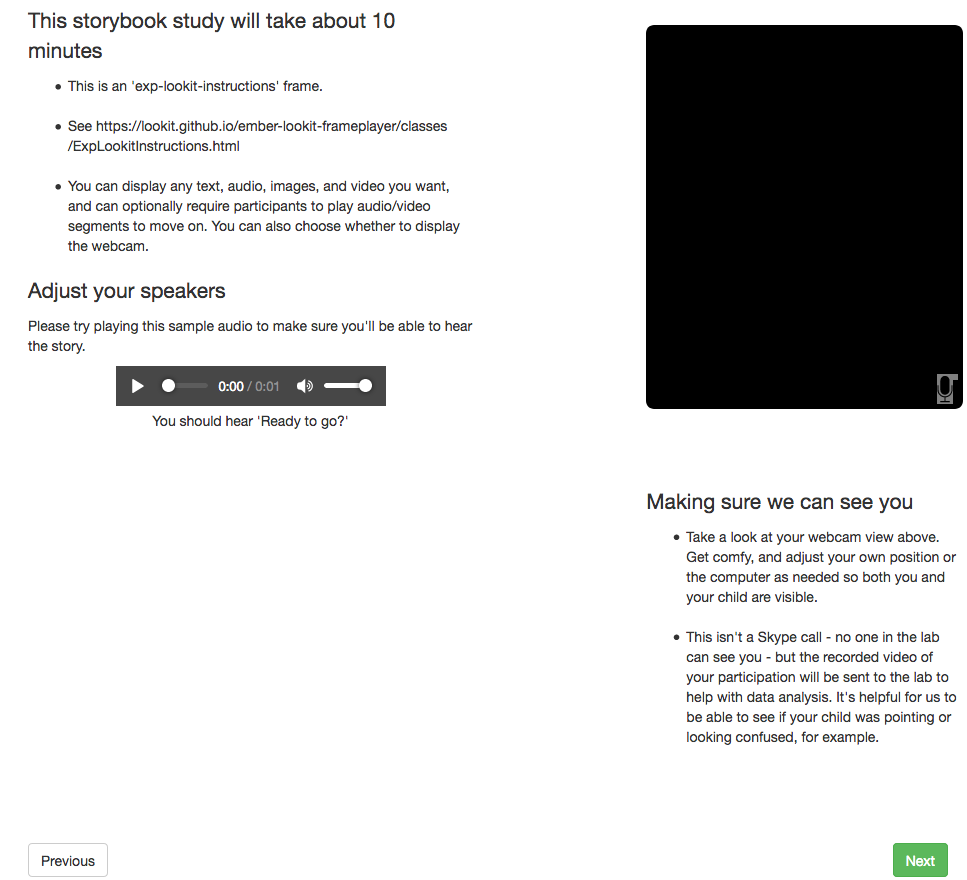
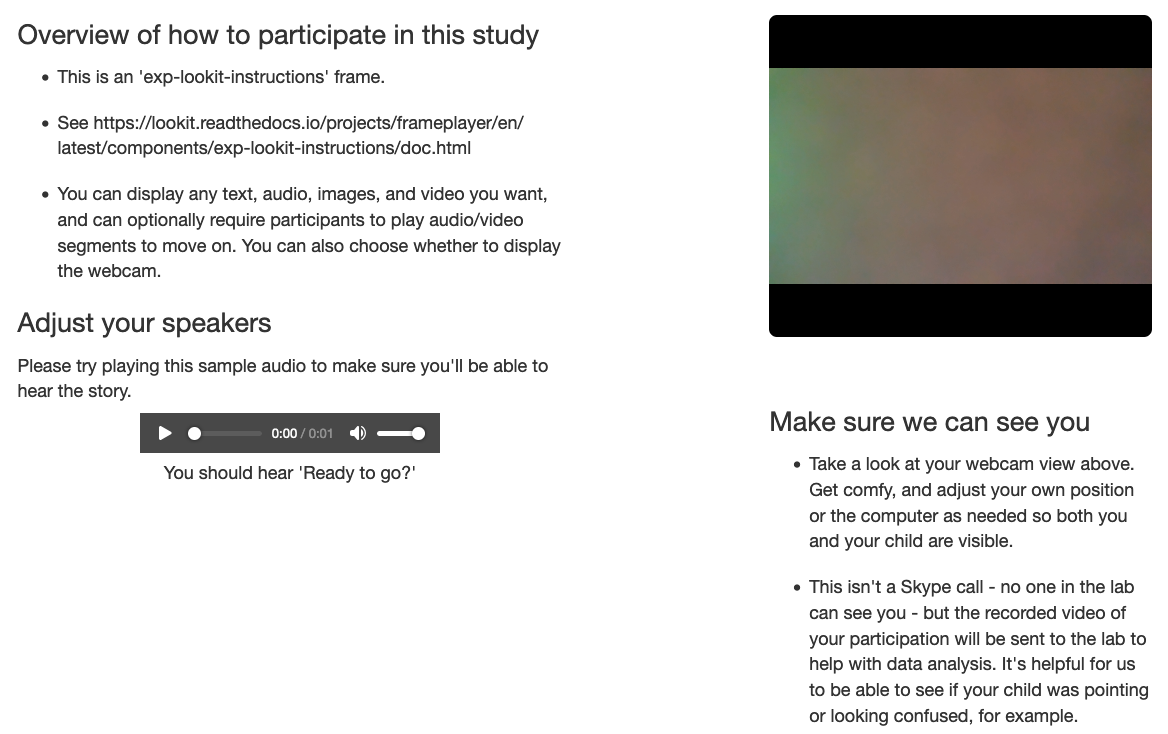
edit/update the section on making changes to a frame

diff --git a/docs/source/tutorial-lookit/tutorial-first-study.rst b/docs/source/tutorial-lookit/tutorial-first-study.rst
@@ -321,7 +321,7 @@ Here's what it looks like now. You don't need to understand everything going on 
         "nextButtonText": "Next"
     },
 
-First, let's flesh out the "overview of how to participate" section by replacing the text with more appropriate instruction text like this:
+First, let's flesh out the "overview of how to participate" section by replacing the text with more appropriate instruction text. Inside the "instructions" frame, find the parameter called "blocks" - this is an array (list) of objects, and each object defines a block of text. Let's change the first object inside "blocks" so that it looks like this:
 
 .. code-block:: none
 
@@ -340,7 +340,7 @@ First, let's flesh out the "overview of how to participate" section by replacing
                 ]
             },
             
-Next, let's help guide families through this frame by adding numbers to the sections. (In a real study you might also consider breaking up a page like this into three shorter pages!)
+Next, let's help guide families through this frame by adding numbers to the section titles. (In a real study you might also consider breaking up a page like this into three shorter pages!)
 
 * Find the line ``"title": "Overview of how to participate in this study",`` and change that to ``"title": "1. Overview of how to participate in this study",``
 
